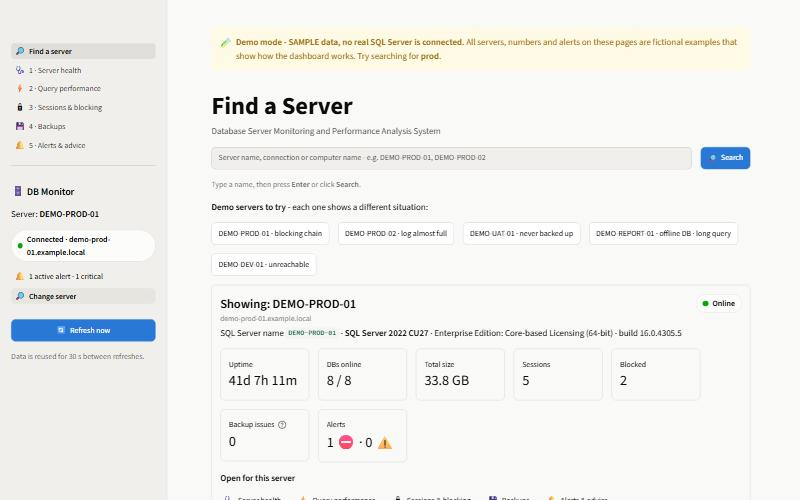
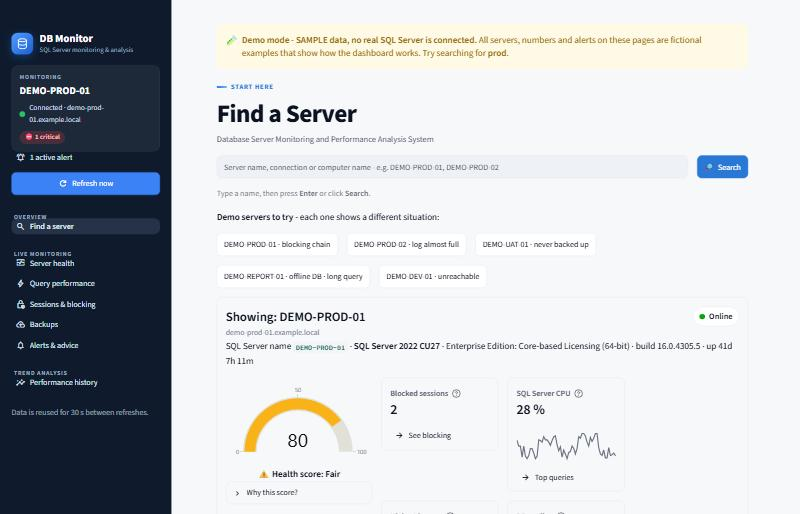
README screenshots in the new design; metric values fit their cards
- Retook all 7 README screenshots (demo mode, sample data only): Find a server,
  Server health, Query performance, Sessions & blocking, Backups, Alerts,
  Performance history
- Metric values 1.5rem semi-bold and cards 168 px wide, so values such as an
  uptime of "12d 19h 12m" are no longer cut off with "..."

diff --git a/monitor/ui.py b/monitor/ui.py
@@ -44,7 +44,7 @@ CATEGORICAL = ["#2a78d6", "#eb6834", "#1baf7a", "#eda100", "#e87ba4", "#008300",
 BLUE_RAMP = ["#cde2fb", "#9ec5f4", "#6da7ec", "#3987e5", "#256abf", "#184f95", "#0d366b"]
 
 STATUS_LABEL = {"Healthy": "✅ Healthy", "Warning": "⚠ Warning", "Critical": "⛔ Critical"}
-CARD_WIDTH = 160          # fixed-width metric cards wrap on narrow screens
+CARD_WIDTH = 168          # fixed-width metric cards wrap on narrow screens
 
 CSS = """
 <style>
@@ -65,7 +65,7 @@ CSS = """
               border-radius:999px; font-weight:600; font-size:.9rem;
               border:1px solid #e1e5eb; background:#ffffff; color:#0b1220;}
   .footnote {color:#7a8494; font-size:.85rem;}
-  [data-testid="stMetricValue"] {font-size: 1.6rem; white-space: nowrap;}
+  [data-testid="stMetricValue"] {font-size: 1.5rem; white-space: nowrap;}
   [data-testid="stMetricLabel"] p {color:#5b6472; font-weight:600;}
 
   /* sidebar (dark navy - colours set in .streamlit/config.toml) */
